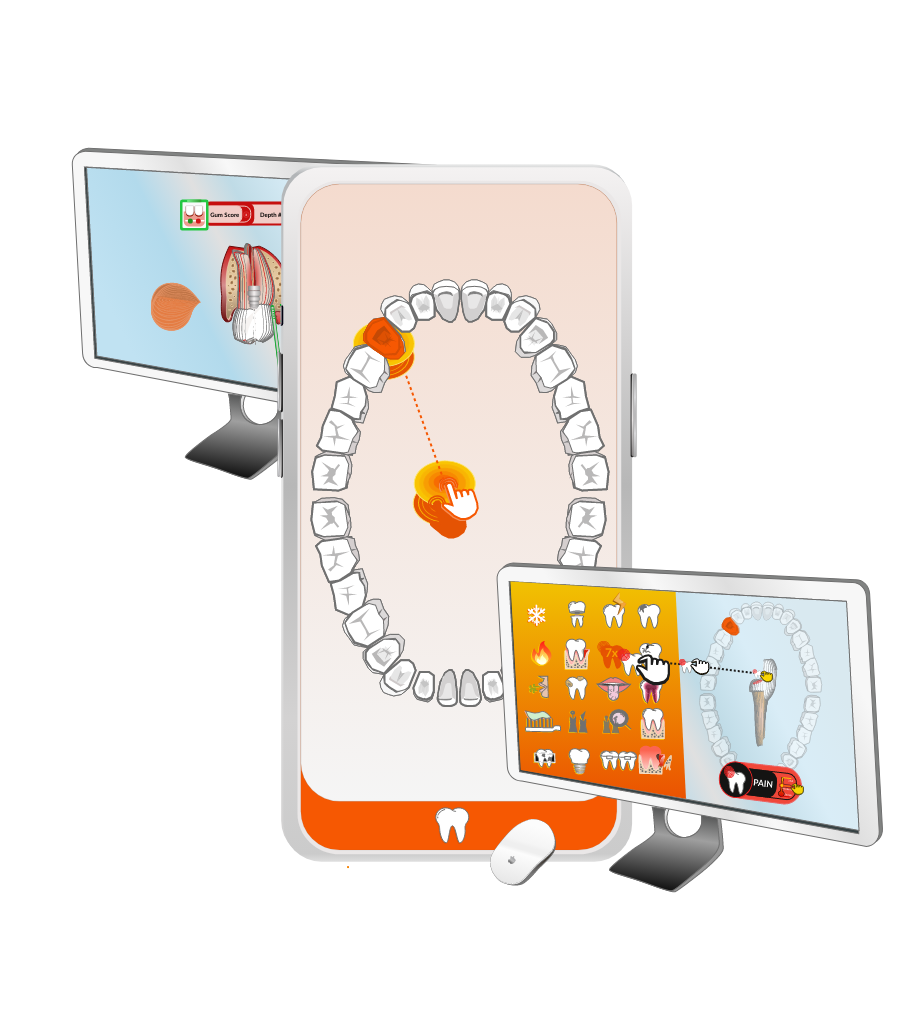
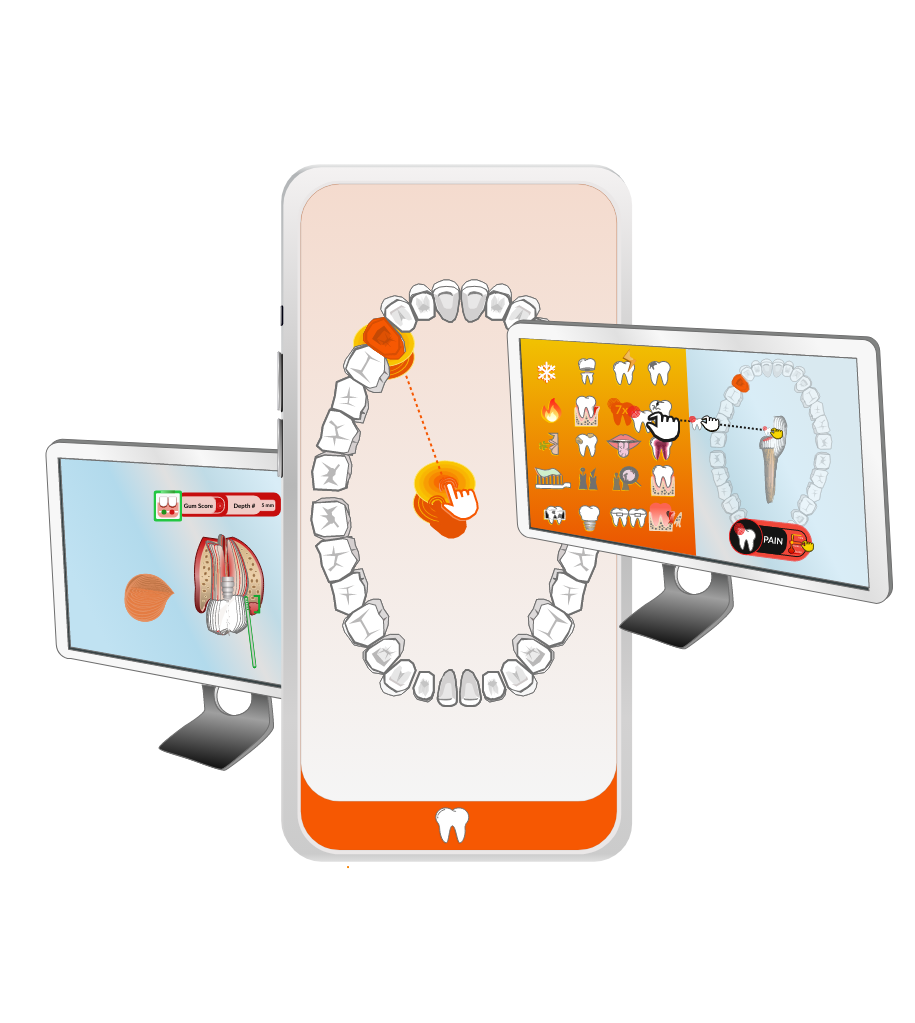
added section to present iframes from smise artboard from adobe xd

Changed region(s): [[0.5202, 0.303, 0.9792, 0.8788], [0.0612, 0.1212, 0.4284, 0.7576]]

diff --git a/src/pages/SmiseArtboards.js b/src/pages/SmiseArtboards.js
@@ -1,0 +1,62 @@
+// import React, { useEffect, useState } from 'react';
+
+import React from 'react';
+import { Link } from 'react-router-dom';
+// Here we import the Header.css file to grant access to some additional classNames
+import '../styles/SmiseArtboardsStyle.css';
+import "fontsource-cascadia-code"
+import myLogoTwo from '../assets/my-logo-2.png'
+import computerScreen from '../assets/computer-screen.png'
+// TODO: Create a styles object called "styles"
+import holeWheel from '../assets/wheel-topper-copy-2.png'
+import LinkIcon from '@mui/icons-material/Link'
+
+
+
+
+function SmiseArtboards() {
+    // TODO: Add a style attribute to header and the h1 element
+
+    return (
+
+        <div>
+            <div style={{ width: '600px', height: '600px', borderRadius: '600px', background: '#C74724', marginTop: '300px' }}>
+                <div style={{ marginLeft: '350px', borderRadius: '600px', background: 'white', width: '600px', height: '600px' }}>
+                    {/* <div style={{ width: '600px', height: '600px', borderRadius: '600px', background: 'white', marginTop: '100px', zIndex: -1 }}></div> */}
+                    <img width="600" height="600" src={holeWheel}></img>
+                    <a style={{ position: 'absolute', top: '735px', left: '47.5%', zIndex: 3, color: '#FE542B', textAlign: 'center' }} href='https://www.behance.net/gallery/150627573/SMISE-Dental-Application-Final-Version-2022'>
+                        <p id='wiggle'>Artboard 1</p>
+                        <LinkIcon id='wiggle' />
+                    </a>
+                </div>
+
+                <div style={{ width: '600px', height: '600px', background: '#FE542B 0% 0% no-repeat padding-box', borderRadius: '600px', position: 'absolute', top: '300px', overflowY: 'scroll' }}>
+                    <iframe width="600" height="600" style={{ borderRadius: '1000px' }} src="https://xd.adobe.com/embed/378eca68-2931-4a7e-9b5c-b5cef196fdc3-62dd/" frameborder="0" allowfullscreen></iframe>
+                </div>
+            </div>
+            <div style={{ width: '600px', height: '600px', borderRadius: '600px', background: '#C74724', marginTop: '0px', marginLeft: '700px' }}>
+                <div style={{ marginLeft: '-300px', borderRadius: '600px', background: 'white', width: '600px', height: '600px' }}>
+                    {/* <div style={{ width: '600px', height: '600px', borderRadius: '600px', background: 'white', marginTop: '100px', zIndex: -1 }}></div> */}
+                    <img width="600" height="600" src={holeWheel}></img>
+                    <a style={{ position: 'absolute', top: '735px', left: '47.5%', zIndex: 3, color: '#FE542B', textAlign: 'center' }} href='https://www.behance.net/gallery/150627573/SMISE-Dental-Application-Final-Version-2022'>
+                        <p id='wiggle'>Artboard 1</p>
+                        <LinkIcon id='wiggle' />
+                    </a>
+                </div>
+
+                <div style={{ width: '600px', height: '600px', background: '#FE542B 0% 0% no-repeat padding-box', borderRadius: '600px', position: 'absolute', top: '900px', overflowY: 'scroll' }}>
+                    <iframe width="600" height="600" style={{ borderRadius: '1000px' }} src="https://xd.adobe.com/embed/378eca68-2931-4a7e-9b5c-b5cef196fdc3-62dd/" frameborder="0" allowfullscreen></iframe>
+                </div>
+            </div>
+        </div>
+        // <div style={{ width: '100%' }}>
+        //     {/* <img src={computerScreen} style={{ width: '700px', zIndex: '-1' }}></img> */}
+
+        //     <div className='computer'>
+        //         <iframe id='zoom' src="https://xd.adobe.com/embed/378eca68-2931-4a7e-9b5c-b5cef196fdc3-62dd/" frameborder="0" allowfullscreen="true" className='artboard'></iframe>
+        //     </div>
+        // </div>
+    );
+}
+
+export default SmiseArtboards;

diff --git a/src/components/Smise.js b/src/components/Smise.js
@@ -45,7 +45,8 @@ function Smise() {
                     <BlockButtonSmise />
                     <p style={{ top: '912px', left: '23.5%', fontSize: '16px', width: '120px', textAlign: 'center', position: 'absolute', zIndex: 5 }}>{item.description}</p>
                     <p style={{ top: '700px', left: '31.3%', fontSize: '10.8px', width: '180px', textAlign: 'center', position: 'absolute', zIndex: 5 }}>{item.descriptionTwo}</p>
-                    <a href={item.link} target='_blank'><img src={smiseLogo} style={{ top: '718px', left: '49.4%', width: '70px', position: 'absolute', zIndex: 4, boxShadow: '0px 3px 6px #00000029', borderRadius: '50px', borderColor: '#EFEEF5' }} id='wiggle'></img></a>
+                    {/* <a href={item.link} target='_blank'><img src={smiseLogo} style={{ top: '718px', left: '49.4%', width: '70px', position: 'absolute', zIndex: 4, boxShadow: '0px 3px 6px #00000029', borderRadius: '50px', borderColor: '#EFEEF5' }} id='wiggle'></img></a> */}
+                    <Link to='/smise-artboards'><img src={smiseLogo} style={{ top: '718px', left: '49.4%', width: '70px', position: 'absolute', zIndex: 4, boxShadow: '0px 3px 6px #00000029', borderRadius: '50px', borderColor: '#EFEEF5' }} id='wiggle'></img></Link>
                 </div>
                 // fix etiquette logo
             ))}
@@ -91,7 +92,7 @@ const itemData = [
         marginTopSlogan: '30px',
         zIndex: 4,
         description: 'Keep Track of Your Teeth',
-        descriptionTwo: `An visual Mockup for a dental app aimed to personalize oral care and engage users through an interactive platform that analyzes dental conditions and provides statistically relevant feedback.`,
+        descriptionTwo: `An visual prototype of a dental app aimed to personalize oral care and engage users through an interactive platform that analyzes dental conditions and provides statistically relevant feedback.`,
         slogan: 'Keep Track of Your Teeth'
     },
 ]

diff --git a/src/App.js b/src/App.js
@@ -20,6 +20,7 @@ import { Helmet } from "react-helmet"
 import Home from './pages/Home'
 import Portfolio from './pages/Portfolio'
 import Skills from './pages/Skills'
+import SmiseArtboards from "./pages/SmiseArtboards";
 import './index.css'
 import './styles/Background.css'
 import moon from './assets/moon-simple.png'
@@ -87,6 +88,7 @@ function App() {
             <Route path="/" element={<Home />} />
             <Route path="/portfolio" element={<Portfolio />} />
             <Route path="/skills" element={<Skills />} />
+            <Route path='/smise-artboards' element={<SmiseArtboards />} />
             {/* <Route path="/skills/project" element={<Project />} /> */}
           </Routes>
 

diff --git a/src/components/BlockButtonSmise.js b/src/components/BlockButtonSmise.js
@@ -32,7 +32,7 @@ function BlockButtonSmise() {
         {
             id: 1,
             img: `${smiseOpening}`,
-            description: 'Keep Track of Your Teeth'
+            description: ''
         },
         {
             id: 2,
@@ -52,7 +52,7 @@ function BlockButtonSmise() {
         {
             id: 5,
             img: `${smiseHidden}`,
-            description: 'Visualize the Areas of Your Mouth You Cannot See'
+            description: 'Gather yearly comparisons of dental records which allow patients to track the progress of their dental health over time'
         },
         {
             id: 6,

diff --git a/src/styles/SmiseArtboardsStyle.css b/src/styles/SmiseArtboardsStyle.css
@@ -1,0 +1,15 @@
+.computer {
+    background: url(../assets/computer-screen.png) no-repeat;
+    background-size: 1440px 100%;
+    /* background-size: 50% 100%;
+    overflow: auto;
+    height: 600px;
+    width: 800px; */
+
+}
+
+.artboard {
+    /* height: 400px;
+    width: 600px; */
+    margin: 20px;
+}
